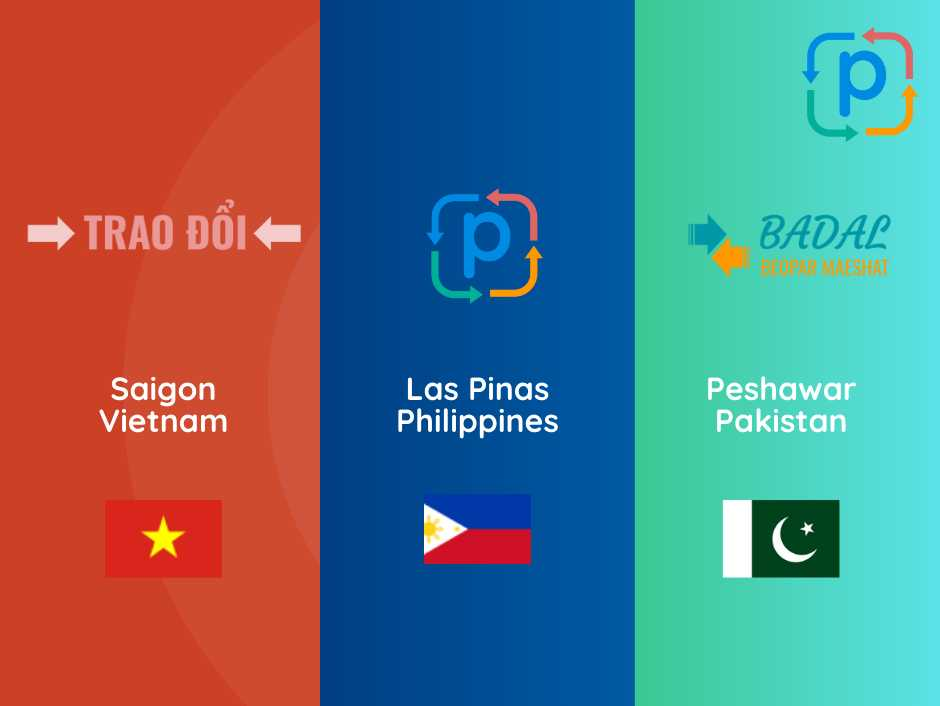
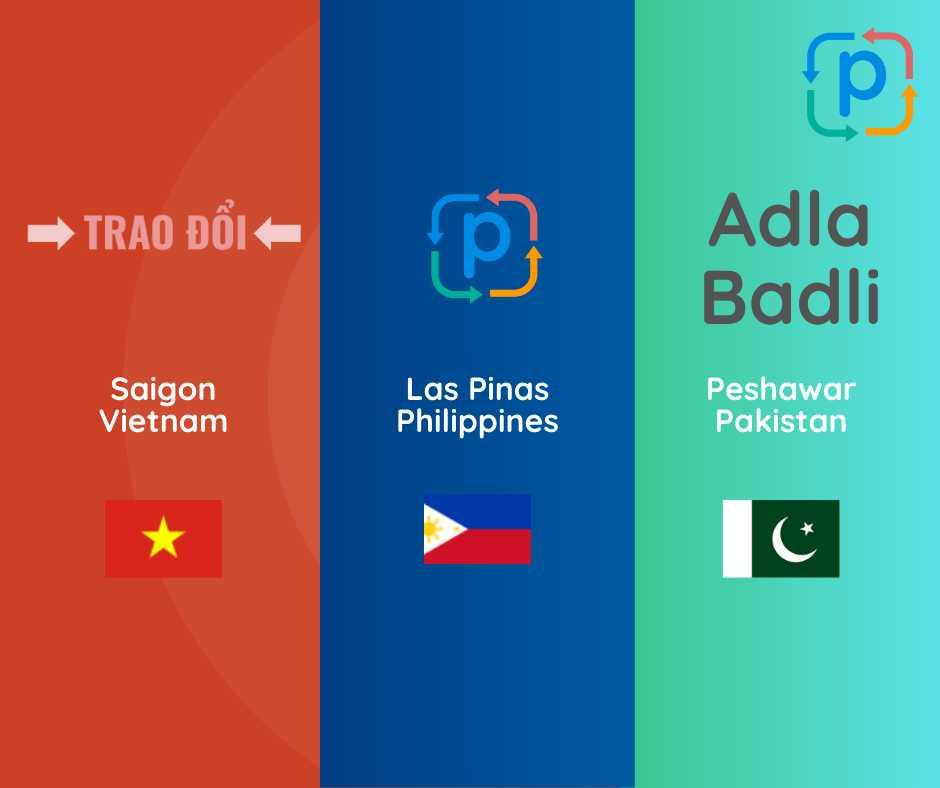
update

diff --git a/content/en/news/24-02-04.md b/content/en/news/24-02-04.md
@@ -11,8 +11,8 @@ writer:
 
 From the start of the lunar new year, we will be testing Pantrypoonts overseas remotely. 
 
-- In the Philippines, it will be Pantrypoints in reference to the community pantry phenomenonn in 2021
+- In the Philippines, it will be Pantrypoints in reference to the community-pantry phenomenonn in 2021
 - In Vietnam, where we began, it will be "Trao Đổi", meaning exchange
-- In Pakistan, it will be "Badel", also meaning exchange  
+- In Pakistan, it will be "Adla Badli", also meaning exchange  
 
 {{< img src="/graphics/asian.jpg" alt="Pantrypoints Overseas" >}}

diff --git a/content/en/news/24-03-18.md b/content/en/news/24-03-18.md
@@ -1,0 +1,17 @@
+---
+title: "New Partner: Yoga Hoa Sen"
+image: "/graphics/hoasen.jpg"
+date: 2024-02-04
+description: "Deploying our overseas prototypes for 2024"
+writer:
+  name: Juan
+  link: https://www.linkedin.com/in/jundalisay/
+---
+
+
+We are happy to have Yoga Hoa Sen as our new partner in Saigon, Vietnam. 
+
+Cofounder Lam joined their yoga class this month and we were able to explore how Pantrypoints Build could help their online presence. 
+
+{{< img src="/graphics/hoasen.jpg" alt="Yoga Hoa Sen" >}}
+

diff --git a/content/en/docs/services/training/team.md b/content/en/docs/services/training/team.md
@@ -1,5 +1,5 @@
 ---
-title: "Teams
+title: "Teams"
 description: "Teamwork is the key factor that makes human work together to achieve common goals."
 image: "/photos/yay.jpg"
 date: 2022-01-18T19:58:14+01:00
